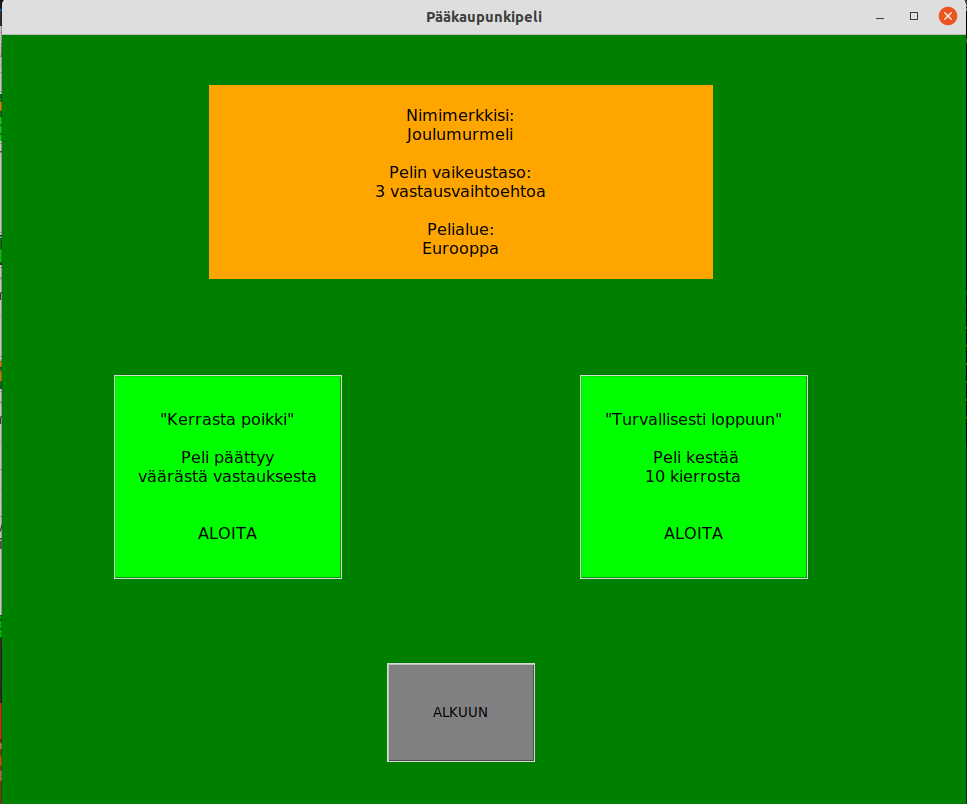
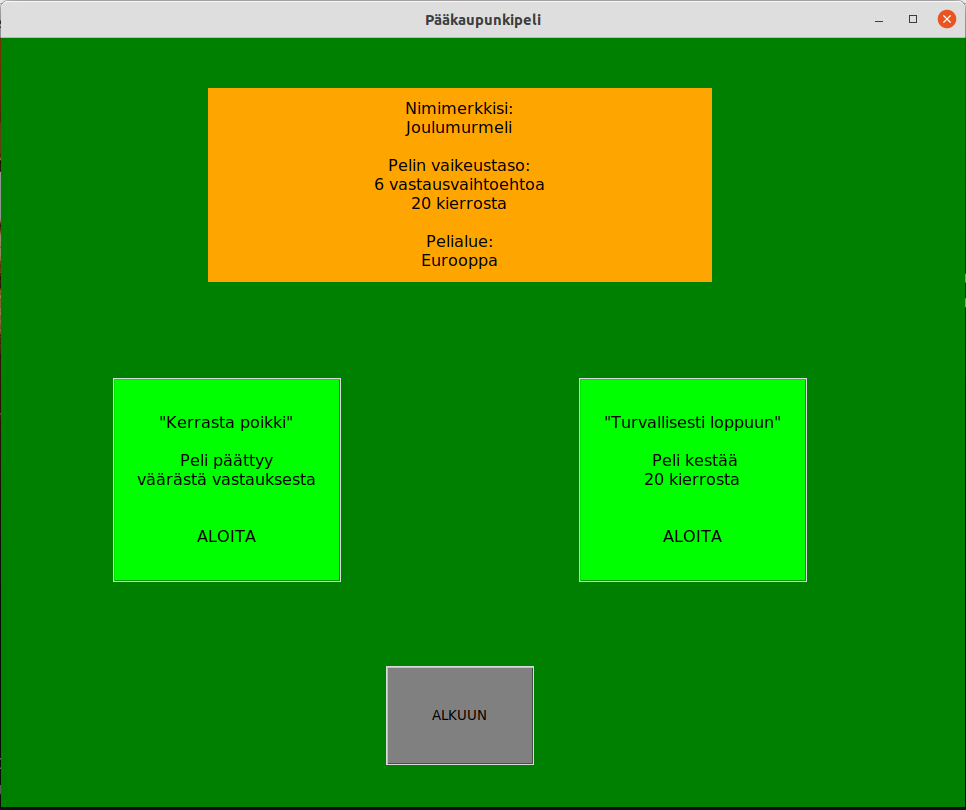
Kaiken päivitystä

diff --git a/dokumentaatio/kayttoohje.md b/dokumentaatio/kayttoohje.md
@@ -35,7 +35,7 @@ Sovellus käynnistää aloitusnäkymän:
 
 ![Aloitusnäkymä](Kuvat/start.png)
 
-Peli on mahdollista aloittaa oletusarvoilla (nimimerkki Maailmanmatkaaja, vaikeustaso 3, koko maailma), mutta pelaaja voi valita oman nimimerkin, vaikeustason ja alueen, jolta kysymykset tulevat. Vaikeustasojen erona on vastausvaihtoehtojen määrä sekä pisteytys: tason kasvaessa pisteitä voi saada enemmän.
+Peli on mahdollista aloittaa oletusarvoilla (nimimerkki Maailmanmatkaaja, vaikeustaso 3, kierroksia 10, koko maailma), mutta pelaaja voi valita oman nimimerkin, vaikeustason, kierrosten määrän ja alueen, jolta kysymykset tulevat. Vaikeustasojen erona on vastausvaihtoehtojen määrä sekä pisteytys: tason kasvaessa pisteitä voi saada enemmän.
 
 ## Pelivalintojen vahvistaminen
 
@@ -43,7 +43,7 @@ Aloitusnäkymästä siirrytään pelivalintojen vahvistamiseen. Peli näyttää 
 
 ![Pelin aloittaminen](Kuvat/ready.png)
 
-Pelissä on valittavana kaksi pelimoodia: äkkikuolema, jossa peli päättyy väärästä vastauksesta, tai kymmenen kierroksen peruspeli. Pelin voi valita painamalla kyseisen moodin aloitusnappia. Vaihtoehtona on myös palata aloitusnäkymään.
+Pelissä on valittavana kaksi pelimoodia: äkkikuolema, jossa peli päättyy väärästä vastauksesta, tai valittujen kierrosten mukainen peruspeli. Pelin voi valita painamalla kyseisen moodin aloitusnappia. Vaihtoehtona on myös palata aloitusnäkymään.
 
 ## Pelin pelaaminen
 
@@ -51,7 +51,7 @@ Pelin alkaessa näkyviin tulee valitun tason mukainen pelinäkymä:
 
 ![Normaali-vaikeustason peli](Kuvat/game.png)
 
-Peruspelissä pelataan kymmenen kierrosta, ellei pelaaja valitse pelin lopettamista aiemmin. Vastauksen klikkaamisen jälkeen näkyviin tulee kysymyslaatikko, jossa on palaute vastauksesta. Peliä voi jatkaa valitsemalla *Yes* tai lopettaa kesken valitsemalla *No*.
+Peruspelissä pelataan valittu määrä kierroksia, ellei pelaaja valitse pelin lopettamista aiemmin. Vastauksen klikkaamisen jälkeen näkyviin tulee kysymyslaatikko, jossa on palaute vastauksesta. Peliä voi jatkaa valitsemalla *Yes* tai lopettaa kesken valitsemalla *No*.
 
 ![Oikea vastaus](Kuvat/correct.png)
 

diff --git a/dokumentaatio/vaatimusmaarittely.md b/dokumentaatio/vaatimusmaarittely.md
@@ -14,7 +14,7 @@ Sovellus koostuu neljästä eri näkymästä:
 
 ![Pelin näkymä](Kuvat/all_views.png)
 
-* Alkunäkymässä syötetään nimimerkki ja valitaan vaikeustaso sekä pelattava alue. Alkunäkymästä voi siirtyä myös pistetilastoihin.
+* Alkunäkymässä syötetään nimimerkki ja valitaan vaikeustaso, kierrosten määrä sekä pelattava alue. Alkunäkymästä voi siirtyä myös pistetilastoihin.
 *  Pelinäkymässä näkyviin tulee maa, vastausvaihtoehdot ja pisteet.
 *  Pelin päätyttyä näkyviin tulee pistetilastosivu.
 
@@ -26,12 +26,13 @@ Sovellus koostuu neljästä eri näkymästä:
 
 * Pelaaja syöttää nimimerkin ja valitsee vaikeustason
     * nimimerkin on oltava vähintään yhden merkin pituinen. Jos nimeä ei syötetä, pelataan oletusnimellä *Maailmanmatkaaja*
-    * Pelin taso säätelee vastausvaihtoehtojen määrää (kaksi, kolme, tai kuusi vaihoehtoa).
-    * Pelialueeksi, eli miltä alueelta maat valitaan, voidaan valita eri maanosa tai koko maailma.
+    * pelin taso säätelee vastausvaihtoehtojen määrää (kaksi, kolme, tai kuusi vaihoehtoa)
+    * peruspelissä pelikierroksia voi valita 10, 15 tai 20
+    * pelialueeksi, eli miltä alueelta maat valitaan, voidaan valita eri maanosa tai koko maailma
 
 * Seuraavassa näkymässä varmistetaan tehdyt pelivalinnat ja valitaan pelitapa:
-    * *Kerrasta poikki* käynnistää pelin, jossa tulee uusi kysymys, kunnes pelaaja vastaa väärin tai valitun alueen kaikki maat on kysytty.
-    * *Turvallisesti loppuun* käynnistää pelin, jossa pelataan kymmenen kysymystä.
+    * *Kerrasta poikki* käynnistää pelin, jossa tulee uusi kysymys, kunnes pelaaja vastaa väärin tai valitun alueen kaikki maat on kysytty
+    * *Turvallisesti loppuun* käynnistää pelin, jossa pelataan valittu määrä kierorksia
     * valintoja voi myös palata muuttamaan alkunäkymään
 
 * Pelinäkymässä näkyviin tulee maa, jonka pääkaupunkia kysytään:

diff --git a/dokumentaatio/kirjanpito.md b/dokumentaatio/kirjanpito.md
@@ -24,5 +24,7 @@ Päivä | Aika | Mitä tein
 20.12.|   7  | Viimeisten toiminnallisuuksien tekoa (toinen pistelista, jo kysyttyjä maita ei kysytä uudelleen), käyttöliittymän siistimistä, testien tekemistä
 21.12.|   3  | Pistelaskurin lisääminen pelinäkymään. Koodin hiomista ja testien tekemistä.
 21.12.|   2  | Dokumentaation laatimista ja päivittämistä.
+21.12.|   2  | Testausraportin laatiminen ja dokumentaation päivitys.
+21.12.|   2  | Loppuinnostuksessa viimeisten toimintojen päivitys (kierrokset), testausta, viimeistelyä.
 
-Yhteensä 61 tuntia
+Yhteensä 65 tuntia
